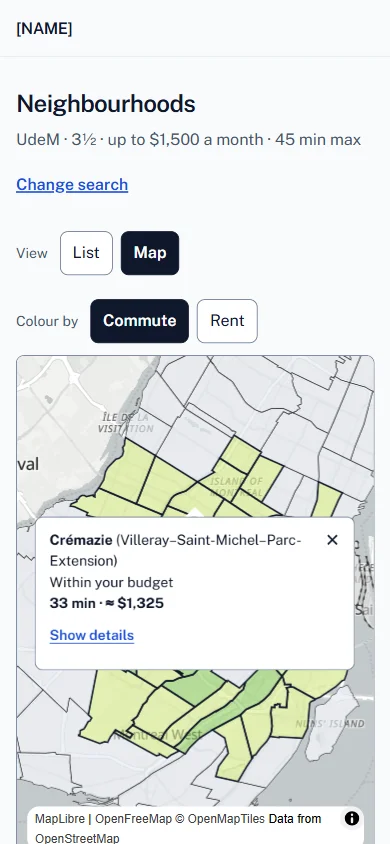
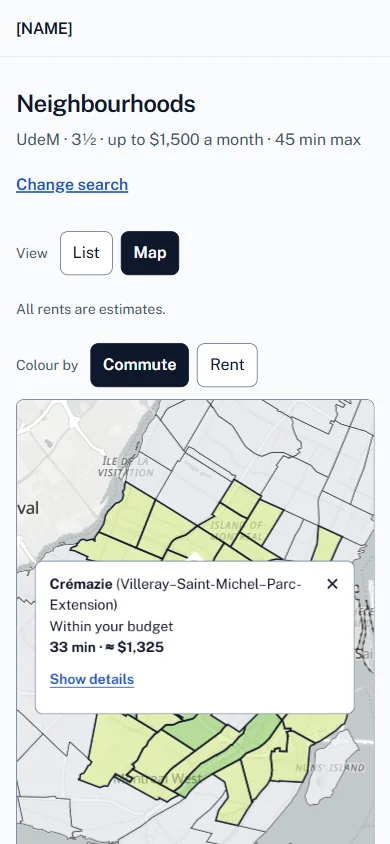
feat(web): owner's M4.3 answers and design-review picks
- Legend: "Typical commute to <campus>"; How it works: 4 km/h chosen to
  match Google Maps (no winter-sidewalk reason).
- Footer link to /map removed (DR-1, by removal); ROADMAP M5: decide
  whether to restyle or delete /map. M6: fix the transit credit wording
  at the next pipeline export.
- DR-2: "Loading the map…" in the map frame until the map paints.
- DR-3: map hint adds "The list has the same information."
- DR-5: the budget hint uses $1,500, like the example search.
- README and DESIGN.md updated; fresh screenshots.

Claude-Session: https://claude.ai/code/session_01JJYy3w4mVdAEEmzzk44Lo2

Changed region(s): [[0.0308, 0.3389, 0.9846, 1.0], [0.0308, 0.5237, 0.0923, 0.5545]]

diff --git a/web/lib/strings/en.ts b/web/lib/strings/en.ts
@@ -183,7 +183,7 @@ export const en = {
     budget: {
       label: "Budget per month",
       optional: "optional",
-      /** `example`: BUDGET_EXAMPLE, already formatted ("1,400"). */
+      /** `example`: BUDGET_EXAMPLE, already formatted ("1,500"). */
       hint: (example: string) => `e.g. ${example}. Leave it empty to sort by commute only.`,
       prefix: "$",
     },
@@ -324,7 +324,6 @@ export const en = {
     howItWorks: "How it works",
     /** Until M5's sources page: points to How it works, "Data and credits". */
     sources: "Sources",
-    map: "Map of all neighbourhoods",
   },
   /** /how-it-works (M4.3). Numbers come from the data files; the full sources and limitations
    * page is M5. */
@@ -340,7 +339,7 @@ export const en = {
       range:
         "“For most homes” is the range from the 10th to the 90th percentile of the neighbourhood’s homes, weighted by the number of households.",
       walking: (kmh: number) =>
-        `Walking is counted at ${kmh} km/h, in line with the walking times Google Maps gives and a little slower on winter sidewalks.`,
+        `Walking is counted at ${kmh} km/h, in line with the walking times Google Maps gives.`,
       closest: (campus: string, buildings: string) =>
         `For ${campus}, each home’s time is to whichever of ${buildings} it reaches first. A class in another building can add a few minutes.`,
       adjustmentsLead:
@@ -382,8 +381,8 @@ export const en = {
   resultsMap: {
     colourBy: "Colour by",
     needsJavaScript: "The map needs JavaScript. The list shows the same neighbourhoods.",
-    hint: "Tap a neighbourhood for its commute and rent.",
-    commuteLegend: (campus: string) => `Median commute to ${campus}`,
+    hint: "Tap a neighbourhood for its commute and rent. The list has the same information.",
+    commuteLegend: (campus: string) => `Typical commute to ${campus}`,
     rentLegend: (size: string) => `Rent for a ${size}, compared with the Montréal asking rent`,
     inResults: "In your results: dark outline",
     pin: "Pin: the campus building the times are measured to",

diff --git a/web/lib/search.ts b/web/lib/search.ts
@@ -19,8 +19,9 @@ export type MaxCommute = (typeof MAX_COMMUTE_MIN)[number];
 /** The owner's example search on the first screen: "UdeM, 3½, $1,500, 45 min" (M4). */
 export const EXAMPLE_SEARCH: Search = { campus: "udem", size: "1br", budget: 1500, maxCommute: 45 };
 
-/** The example in the budget hint ("e.g. 1,400"); a valid budget (tested). */
-export const BUDGET_EXAMPLE = 1400;
+/** The example in the budget hint ("e.g. 1,500"), the same as the example search (owner,
+ * M4.3); a valid budget (tested). */
+export const BUDGET_EXAMPLE = 1500;
 
 export interface Search {
   campus: string;

diff --git a/web/app/(site)/results/ResultsMap.tsx b/web/app/(site)/results/ResultsMap.tsx
@@ -152,6 +152,10 @@ export default function ResultsMap({
         </div>
       )}
       <div className="relative h-[60vh] min-h-80 overflow-hidden rounded-control border border-control bg-surface">
+        {/* Under the map: visible until the basemap paints over it (design review DR-2). */}
+        <p className="absolute inset-0 flex items-center justify-center text-sm text-ink-muted">
+          {strings.map.loadingMap}
+        </p>
         <QuartierMap mode={mode} size={size ?? "1br"} campus={campus} results={results} />
       </div>
       <noscript>

diff --git a/web/lib/strings/strings.test.ts b/web/lib/strings/strings.test.ts
@@ -19,7 +19,7 @@ describe("strings", () => {
 
   it("takes the budget example and the commute buttons from the code, not typed text", () => {
     expect(strings.form.budget.hint(strings.format.dollars(BUDGET_EXAMPLE))).toBe(
-      "e.g. 1,400. Leave it empty to sort by commute only.",
+      "e.g. 1,500. Leave it empty to sort by commute only.",
     );
     expect(parseSearch({ campus: "a", size: "1br", budget: String(BUDGET_EXAMPLE), max: "45" }, ["a"]).ok).toBe(
       true,

diff --git a/web/app/(site)/layout.tsx b/web/app/(site)/layout.tsx
@@ -31,9 +31,6 @@ export default async function SiteLayout({ children }: LayoutProps<"/">) {
             <Link href="/how-it-works#data-and-credits" className={footerLink}>
               {strings.footer.sources}
             </Link>
-            <Link href="/map" className={footerLink}>
-              {strings.footer.map}
-            </Link>
           </nav>
         </div>
       </footer>

diff --git a/docs/ROADMAP.md b/docs/ROADMAP.md
@@ -13,9 +13,9 @@ them: heavy local runs, approvals, deploys.
 | **M2.7** (optional) Old-lease bias | Investigate CMHC vacant-unit rents by zone to correct the old-lease bias (see `docs/methodology.md`, Rent, "Known limitation: old leases") | optional, parked until after M4 |
 | **M3** McGill + Concordia commutes | Travel times for the other two campuses (downtown campuses only: Roddick Gates, Hall Building; Macdonald and Loyola out of scope for now). **Needs owner:** Google times for validation, heavy local run, at home | done (PR #10) |
 | **M4** Real site | Form (campus, apartment size, budget, max commute), ranked shortlist, detail panel; mobile-first. Before starting, review garrytan/gstack's /design-review and /qa skills; copy useful parts into .claude/, don't install the whole toolkit. Impeccable wins over gstack: take from gstack only what Impeccable doesn't do (likely browser QA). First screen: one-line explanation ('Find where to live in Montréal without a car') + the search form (campus, size, budget, max commute) + 'Show me neighbourhoods' button, no sign-up. Results: ranked shortlist cards first (name, commute, rent, reliability badge), map second. An 'example search' link. Short 'How it works' + honest data line + link to sources. The map is the results view, not the homepage. Decisions: see "M4 decisions" below. | |
-| **M5** Languages, sources, sharing | French/English, sources & limitations page (must include: the old-lease bias, i.e. CMHC averages include long-time tenants, so old-stock areas look cheaper and new-build areas pricier than new listings; R5 itinerary vs matrix mismatch for Concordia east trips (Peel exit); McGill route 5: R5 counts waiting time, Google doesn't), shareable URL holding the search settings | |
+| **M5** Languages, sources, sharing | French/English, sources & limitations page (must include: the old-lease bias, i.e. CMHC averages include long-time tenants, so old-stock areas look cheaper and new-build areas pricier than new listings; R5 itinerary vs matrix mismatch for Concordia east trips (Peel exit); McGill route 5: R5 counts waiting time, Google doesn't), shareable URL holding the search settings; decide whether to restyle `/map` (the old explorer, no longer linked since M4.3) or delete it | |
 | **M5.5** Auto-refresh | See below | |
-| **M6** Launch | Out-of-sample validation (3–4 new Google routes, collected *before* running R5; settings frozen; failures reported, not tuned); refresh before launch (GTFS, and check for a newer StatCan quarter); deploy to Vercel. **Needs owner:** OK to deploy | |
+| **M6** Launch | Out-of-sample validation (3–4 new Google routes, collected *before* running R5; settings frozen; failures reported, not tuned); refresh before launch (GTFS, and check for a newer StatCan quarter); fix the transit credit wording in `commute.json` ("licensed under CC BY 4.0") at the next pipeline export; deploy to Vercel. **Needs owner:** OK to deploy | |
 
 ## M5.5 Auto-refresh
 

diff --git a/README.md b/README.md
@@ -95,10 +95,11 @@ Pages:
     reason in its popup). The list stays the default.
   - `open=<id>`: opens that card (the map popup's "Show details").
 - `/how-it-works`: where the commute times and rents come from, the shortlist rules, credits.
-- `/map`: every neighbourhood, linked from the footer (the older explorer: Commute / Rent,
-  campus and size pickers, legend). Basemap: OpenFreeMap (no API key).
+- `/map`: the older explorer of every neighbourhood (Commute / Rent, campus and size pickers,
+  legend). Not linked from the site since M4.3; M5 decides whether to restyle or delete it.
+  Basemap: OpenFreeMap (no API key).
 - Footer on the site's pages: the data line (schedule day, CMHC period, StatCan quarter) and
-  links to How it works, Sources and the full map.
+  links to How it works and Sources.
 
 They read `web/public/data/neighbourhoods.geojson`, `commute.json` and `rent.json` (written by
 the pipeline's `export` and `rent-export` steps and committed).

diff --git a/web/DESIGN.md b/web/DESIGN.md
@@ -69,5 +69,6 @@ evening; then reading a shortlist. Light only: daytime use, and the map's data c
 - **Browser surfaces:** themed selection, caret, accent colour and focus ring; no browser tap
   tint. Tabular numerals only where numbers line up in columns (minutes and rents on cards).
 
-The map (`/map`) keeps its own M2.6/M3 styling until M4.3 reworks it as the results' second
-view.
+The results' map view (M4.3) is drawn in this system. The older explorer at `/map` keeps its
+M2.6/M3 styling and is no longer linked from the site; M5 decides whether to restyle or delete
+it (owner, after the M4 design review).
